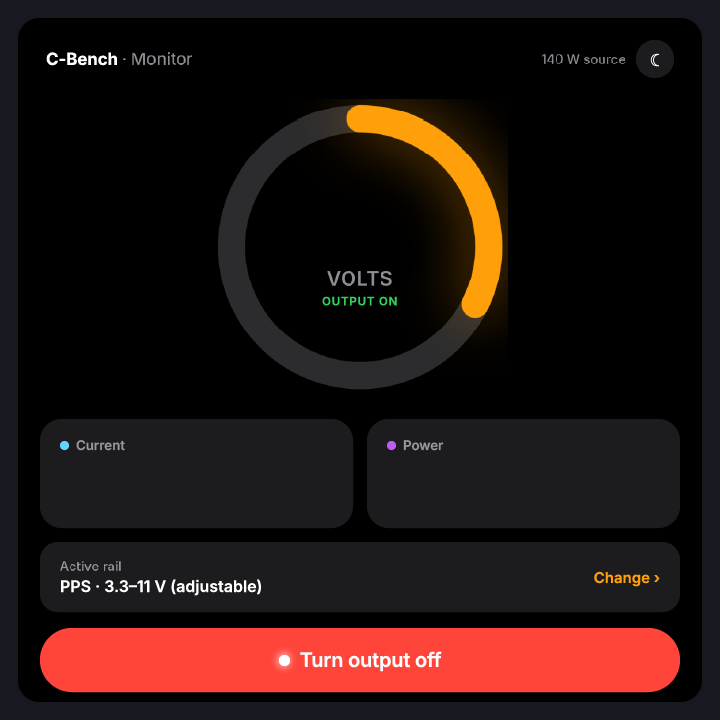
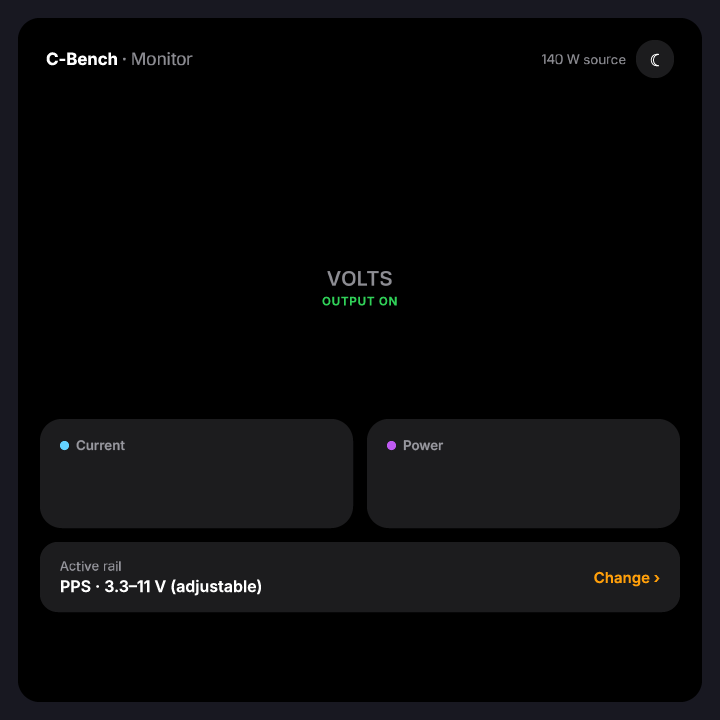
view1: orange voltage arc tracking live V (reg 0x0010)

Changed region(s): [[0.0306, 0.8556, 0.9472, 0.9778], [0.3056, 0.1222, 0.7028, 0.55]]

diff --git a/GiraffeIDE/PD_V0.5/apps/ui/view1/view1_ui.c b/GiraffeIDE/PD_V0.5/apps/ui/view1/view1_ui.c
@@ -70,17 +70,17 @@ static void label2_event(grf_ctrl_t *ctrl, grf_event_e event)
 }
 
 
-static void sw0_event(grf_ctrl_t *ctrl, grf_event_e event)
+static void image_button0_event(grf_ctrl_t *ctrl, grf_event_e event)
 {
     if (event == GRF_EVENT_VALUE_CHANGED) {
-        u16 on = grf_sw_get_state(ctrl) ? 1 : 0;
-        grf_reg_set(0x0022, on);   // store value in ctrlreg[]
-        grf_reg_com_send(0x0022, 1); // emit 5A A5 06 83 00 22 01 00 0X
+        u16 on = (grf_ctrl_get_state(ctrl) & GRF_STATE_CHECKED) ? 1 : 0;
+        grf_reg_set(0x0022, on);
+        grf_reg_com_send(0x0022, 1);
     }
 }
 
 
-static void image_button0_event(grf_ctrl_t *ctrl, grf_event_e event)
+static void arc0_event(grf_ctrl_t *ctrl, grf_event_e event)
 {
 //	switch (event) {
 //		case GRF_EVENT_CLICKED:{

diff --git a/GiraffeIDE/PD_V0.5/libs/appscc/view1_cc.h b/GiraffeIDE/PD_V0.5/libs/appscc/view1_cc.h
@@ -1,11 +1,11 @@
 static grf_ctrl_fun_t view_ctrls_fun_t[] =
 {
-	{VIEW1_LABEL0_ID,label0_event},
 	{VIEW1_LABEL2_ID,label2_event},
 	{VIEW1_LABEL4_ID,label4_event},
-	{VIEW1_SW0_ID,sw0_event},
 	{VIEW1_IMAGE_BUTTON0_ID,image_button0_event},
-	{VIEW1_LABEL1_ID,label1_event},
+	{VIEW1_ARC0_ID,arc0_event},
+	{VIEW1_LABEL0_ID,label0_event},
 	{VIEW1_LABEL3_ID,label3_event},
-	{VIEW1_LABEL5_ID,label5_event}
+	{VIEW1_LABEL5_ID,label5_event},
+	{VIEW1_LABEL1_ID,label1_event}
 };

diff --git a/GiraffeIDE/PD_V0.5/apps/hardware/uart/grf_hw_uart.c b/GiraffeIDE/PD_V0.5/apps/hardware/uart/grf_hw_uart.c
@@ -4,9 +4,12 @@
 
 static grf_drv_t *drv_uart = NULL;
 
-#define LBL_VOLT   1   /* <- Control IDs from Giraffe IDE */
+#define LBL_VOLT   1
+#define ARC_VOLT   7   /* <- your arc's Control ID from view1.h */
+
 #define LBL_CURR   3
 #define LBL_POWER  5
+
 
 void grf_reg_set_user(u16 addr,u16* data,u8 datalen)
 {
@@ -15,6 +18,7 @@ void grf_reg_set_user(u16 addr,u16* data,u8 datalen)
         case 0x0010:  /* voltage mV */
             snprintf(buf,sizeof(buf),"%u.%02u", data[0]/1000, (data[0]%1000)/10);
             grf_label_set_txt(GCL(GRF_VIEW1_ID, LBL_VOLT), buf);
+            grf_arc_set_value(GCL(GRF_VIEW1_ID, ARC_VOLT), data[0]/100); /* 0..280 = 0..28.0V */
             break;
         case 0x0011:  /* current mA */
             snprintf(buf,sizeof(buf),"%u.%03u A", data[0]/1000, data[0]%1000);

diff --git a/GiraffeIDE/PD_V0.5/apps/ui/view1/view1.h b/GiraffeIDE/PD_V0.5/apps/ui/view1/view1.h
@@ -4,13 +4,13 @@
 typedef enum {
 	VIEW1_NULL,
 	VIEW1_LABEL2_ID = 3,
+	VIEW1_ARC0_ID = 7,
 	VIEW1_LABEL3_ID = 4,
 	VIEW1_LABEL0_ID = 1,
 	VIEW1_LABEL1_ID = 2,
 	VIEW1_IMAGE_BUTTON0_ID = 8,
 	VIEW1_LABEL5_ID = 6,
-	VIEW1_LABEL4_ID = 5,
-	VIEW1_SW0_ID = 7
+	VIEW1_LABEL4_ID = 5
 } view1_ctrls_id_e;
 
 void view1_init(void);